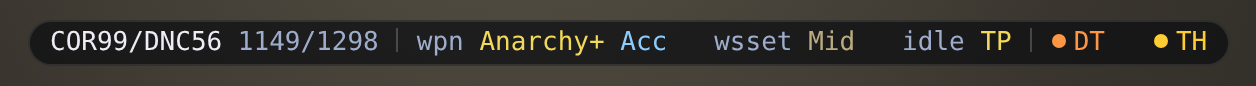
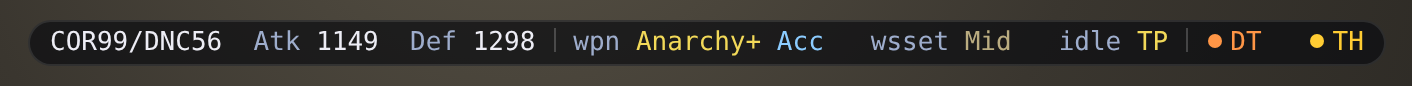
/gcbar: attack and defense labelled; RNG example dual wields (#71)
* /ejenter /ejexit: Einherjar through Bellhop

/ejenter trades your lamp to the targeted Entry Gate with Bellhop's
tradenpc (a Smoldering Lamp reserves the chamber, else a Glowing Lamp
enters); the gate's menu stays manual. /ejexit is /bh drop "Glowing
Lamp". Both say so when the Bellhop plugin isn't loaded (Ashita only).
COMMANDS: the hand-out step (/bh tradeplayer + /bh whitelist).

Claude-Session: https://claude.ai/code/session_01GjFPLzfJPpNNSrzg4WuDgg

* /ejenter /ejexit: native Ashita Einherjar (Valkyrie's gate exchange), no Bellhop

/ejenter <chamber> reserves with the Smoldering Lamp, /ejenter enters the
Glowing Lamp's chamber, /ejexit drops the Glowing Lamp. Packet sequence and
chamber data follow Tny5989's Valkyrie; layouts from XiPackets.

Claude-Session: https://claude.ai/code/session_01GjFPLzfJPpNNSrzg4WuDgg

* Einherjar: copy the Glowing Lamp and trade one to each party member

After a reservation (or /ejlamps) the reserver uses the Glowing Lamp until there
is one per party member within 6 yalms, then trades each one over. Boxes running
GoomSwap in Hazhalm accept a party member's trade and confirm it when everything
offered is a Glowing Lamp. Trade packets per XiPackets / Windower fields.lua,
receiver handshake as Ivaar's Trade addon.

Claude-Session: https://claude.ai/code/session_01GjFPLzfJPpNNSrzg4WuDgg

* Einherjar lamps: accept a trade after 1s, as Alexandria does

Leaves a trade you, Bellhop or Alexandria already accepted alone.
[…]

Changed region(s): [[0.0311, 0.3488, 0.9936, 0.6512]]

diff --git a/README.md b/README.md
@@ -274,7 +274,7 @@ This box only. `/gcbar`, `/gcbar pos X Y` or drag (saved per character); `Displa
 
 ![The status bar](docs/gcbar.png)
 
-- **Job** and attack/defense | **modes that are set** | **toggles that are on** as dots.
+- **Job**, `Atk` and `Def` | **modes that are set** | **toggles that are on** as dots.
 - `wpn`: `+` = slot pick changed; tag = `/mmode` (`Acc`, `SB`); teal = `/hoxne`. `idle`: `MP` `HP` `TP`.
 - Dots: DT orange, MDT blue, Aminon purple, SIR blue, TH gold, Kite green, Burst pink, PROC red, Harp teal.
 - Grows with what it shows. Windower: `|` and coloured names, no capsule or dots.
